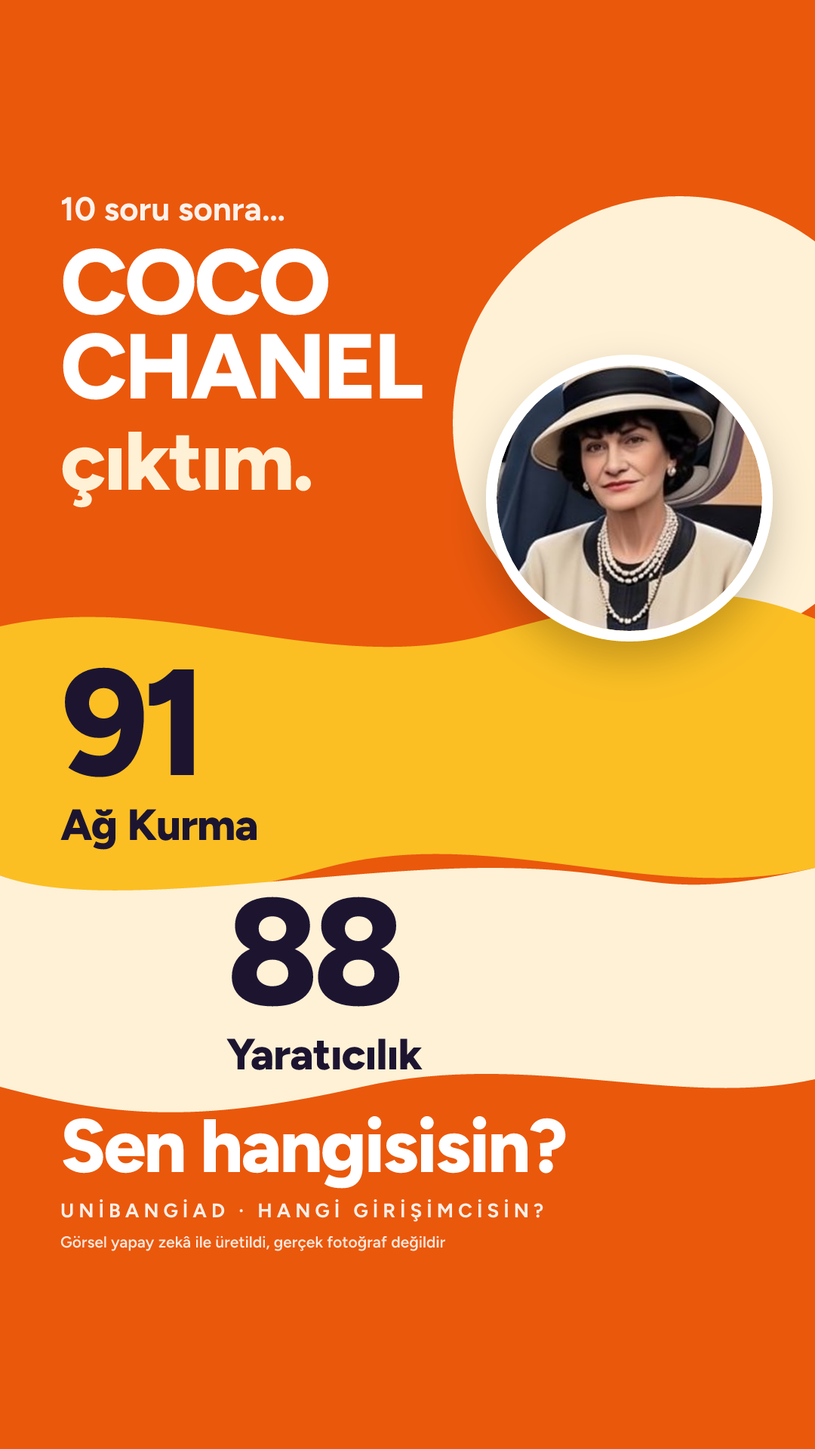
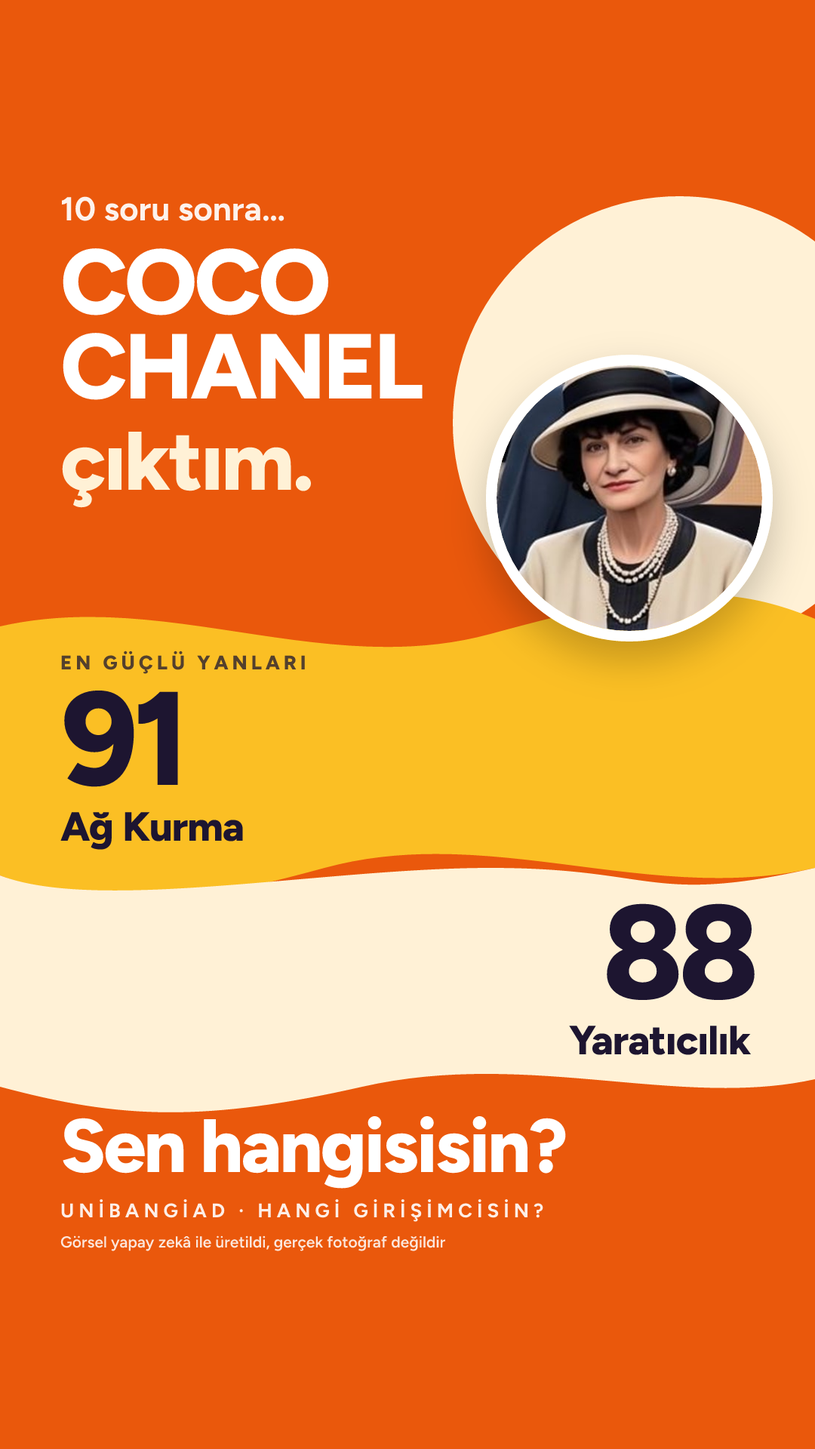
Wrapped öne alındı; En güçlü yanları başlığı, zikzak düzen
İkinci değer 75 altındaysa basılmaz.

Changed region(s): [[0.0611, 0.4375, 0.5194, 0.75], [0.7028, 0.625, 0.9472, 0.75]]

diff --git a/kofteci-yusuf/index.html b/kofteci-yusuf/index.html
@@ -13,7 +13,7 @@
 <style>:root{--g1:#7F1D1D;--g2:#EF4444}</style>
 <meta property="og:title" content="Köfteci Yusuf çıktım! — Hangi Girişimcisin?">
 <meta property="og:description" content="Sen bir kez doğru yaparsın, sonra onu bin kez aynı şekilde tekrarlarsın.">
-<meta property="og:image" content="https://arifemre1939.github.io/hangi-girisimcisin-paylas/kofteci-yusuf/hikaye-kart.png">
+<meta property="og:image" content="https://arifemre1939.github.io/hangi-girisimcisin-paylas/kofteci-yusuf/hikaye-wrapped.png">
 <script src="../paylas.js" defer></script>
 </head>
 <body>
@@ -24,14 +24,14 @@
 
   <!-- Kaydırılabilir şablonlar: hangisi ortadaysa paylaş/kaydet onu kullanır (paylas.js). -->
   <div class="sablonlar" id="sablonlar" tabindex="0" aria-label="Hikâye şablonları, yana kaydırarak seç">
-    <figure class="sablon" data-dosya="hikaye-kart.png"><img src="hikaye-kart.png" width="1080" height="1920" alt="Köfteci Yusuf — Girişimci kartı hikâye görseli"><figcaption>Girişimci kartı</figcaption></figure>
     <figure class="sablon" data-dosya="hikaye-wrapped.png"><img src="hikaye-wrapped.png" width="1080" height="1920" alt="Köfteci Yusuf — Wrapped hikâye görseli"><figcaption>Wrapped</figcaption></figure>
+    <figure class="sablon" data-dosya="hikaye-kart.png"><img src="hikaye-kart.png" width="1080" height="1920" alt="Köfteci Yusuf — Girişimci kartı hikâye görseli"><figcaption>Girişimci kartı</figcaption></figure>
   </div>
-  <div class="noktalar" id="noktalar"><button type="button" class="nokta aktif" data-i="0" aria-label="Girişimci kartı şablonunu göster"></button><button type="button" class="nokta" data-i="1" aria-label="Wrapped şablonunu göster"></button></div>
+  <div class="noktalar" id="noktalar"><button type="button" class="nokta aktif" data-i="0" aria-label="Wrapped şablonunu göster"></button><button type="button" class="nokta" data-i="1" aria-label="Girişimci kartı şablonunu göster"></button></div>
 
   <section class="eylemler">
     <button type="button" class="btn ana" id="paylas-btn"><svg xmlns="http://www.w3.org/2000/svg" width="22" height="22" fill="currentColor" viewBox="0 0 256 256" aria-hidden="true"><path d="M128,80a48,48,0,1,0,48,48A48.05,48.05,0,0,0,128,80Zm0,72a24,24,0,1,1,24-24A24,24,0,0,1,128,152ZM176,20H80A60.07,60.07,0,0,0,20,80v96a60.07,60.07,0,0,0,60,60h96a60.07,60.07,0,0,0,60-60V80A60.07,60.07,0,0,0,176,20Zm36,156a36,36,0,0,1-36,36H80a36,36,0,0,1-36-36V80A36,36,0,0,1,80,44h96a36,36,0,0,1,36,36ZM196,76a16,16,0,1,1-16-16A16,16,0,0,1,196,76Z"></path></svg>Instagram hikâyende paylaş</button>
-    <a class="btn" id="kaydet" href="hikaye-kart.png" download="kofteci-yusuf-hikaye-kart.png"><svg xmlns="http://www.w3.org/2000/svg" width="20" height="20" fill="currentColor" viewBox="0 0 256 256" aria-hidden="true"><path d="M228,144v64a12,12,0,0,1-12,12H40a12,12,0,0,1-12-12V144a12,12,0,0,1,24,0v52H204V144a12,12,0,0,1,24,0Zm-108.49,8.49a12,12,0,0,0,17,0l40-40a12,12,0,0,0-17-17L140,115V32a12,12,0,0,0-24,0v83L96.49,95.51a12,12,0,0,0-17,17Z"></path></svg>Görseli kaydet</a>
+    <a class="btn" id="kaydet" href="hikaye-wrapped.png" download="kofteci-yusuf-hikaye-wrapped.png"><svg xmlns="http://www.w3.org/2000/svg" width="20" height="20" fill="currentColor" viewBox="0 0 256 256" aria-hidden="true"><path d="M228,144v64a12,12,0,0,1-12,12H40a12,12,0,0,1-12-12V144a12,12,0,0,1,24,0v52H204V144a12,12,0,0,1,24,0Zm-108.49,8.49a12,12,0,0,0,17,0l40-40a12,12,0,0,0-17-17L140,115V32a12,12,0,0,0-24,0v83L96.49,95.51a12,12,0,0,0-17,17Z"></path></svg>Görseli kaydet</a>
     <div class="ipucu" id="ipucu" hidden>
       <p><strong>Görsel kaydedildi.</strong> Instagram'da yeni bir hikâye aç ve galeriden bu görseli seç.</p>
       <a href="instagram://story-camera">Instagram'ı aç →</a>

diff --git a/acun-ilicali/index.html b/acun-ilicali/index.html
@@ -13,7 +13,7 @@
 <style>:root{--g1:#9333EA;--g2:#F43F5E}</style>
 <meta property="og:title" content="Acun Ilıcalı çıktım! — Hangi Girişimcisin?">
 <meta property="og:description" content="Sen bir program yapmazsın, milyonları aynı saatte ekran başına toplarsın.">
-<meta property="og:image" content="https://arifemre1939.github.io/hangi-girisimcisin-paylas/acun-ilicali/hikaye-kart.png">
+<meta property="og:image" content="https://arifemre1939.github.io/hangi-girisimcisin-paylas/acun-ilicali/hikaye-wrapped.png">
 <script src="../paylas.js" defer></script>
 </head>
 <body>
@@ -24,14 +24,14 @@
 
   <!-- Kaydırılabilir şablonlar: hangisi ortadaysa paylaş/kaydet onu kullanır (paylas.js). -->
   <div class="sablonlar" id="sablonlar" tabindex="0" aria-label="Hikâye şablonları, yana kaydırarak seç">
-    <figure class="sablon" data-dosya="hikaye-kart.png"><img src="hikaye-kart.png" width="1080" height="1920" alt="Acun Ilıcalı — Girişimci kartı hikâye görseli"><figcaption>Girişimci kartı</figcaption></figure>
     <figure class="sablon" data-dosya="hikaye-wrapped.png"><img src="hikaye-wrapped.png" width="1080" height="1920" alt="Acun Ilıcalı — Wrapped hikâye görseli"><figcaption>Wrapped</figcaption></figure>
+    <figure class="sablon" data-dosya="hikaye-kart.png"><img src="hikaye-kart.png" width="1080" height="1920" alt="Acun Ilıcalı — Girişimci kartı hikâye görseli"><figcaption>Girişimci kartı</figcaption></figure>
   </div>
-  <div class="noktalar" id="noktalar"><button type="button" class="nokta aktif" data-i="0" aria-label="Girişimci kartı şablonunu göster"></button><button type="button" class="nokta" data-i="1" aria-label="Wrapped şablonunu göster"></button></div>
+  <div class="noktalar" id="noktalar"><button type="button" class="nokta aktif" data-i="0" aria-label="Wrapped şablonunu göster"></button><button type="button" class="nokta" data-i="1" aria-label="Girişimci kartı şablonunu göster"></button></div>
 
   <section class="eylemler">
     <button type="button" class="btn ana" id="paylas-btn"><svg xmlns="http://www.w3.org/2000/svg" width="22" height="22" fill="currentColor" viewBox="0 0 256 256" aria-hidden="true"><path d="M128,80a48,48,0,1,0,48,48A48.05,48.05,0,0,0,128,80Zm0,72a24,24,0,1,1,24-24A24,24,0,0,1,128,152ZM176,20H80A60.07,60.07,0,0,0,20,80v96a60.07,60.07,0,0,0,60,60h96a60.07,60.07,0,0,0,60-60V80A60.07,60.07,0,0,0,176,20Zm36,156a36,36,0,0,1-36,36H80a36,36,0,0,1-36-36V80A36,36,0,0,1,80,44h96a36,36,0,0,1,36,36ZM196,76a16,16,0,1,1-16-16A16,16,0,0,1,196,76Z"></path></svg>Instagram hikâyende paylaş</button>
-    <a class="btn" id="kaydet" href="hikaye-kart.png" download="acun-ilicali-hikaye-kart.png"><svg xmlns="http://www.w3.org/2000/svg" width="20" height="20" fill="currentColor" viewBox="0 0 256 256" aria-hidden="true"><path d="M228,144v64a12,12,0,0,1-12,12H40a12,12,0,0,1-12-12V144a12,12,0,0,1,24,0v52H204V144a12,12,0,0,1,24,0Zm-108.49,8.49a12,12,0,0,0,17,0l40-40a12,12,0,0,0-17-17L140,115V32a12,12,0,0,0-24,0v83L96.49,95.51a12,12,0,0,0-17,17Z"></path></svg>Görseli kaydet</a>
+    <a class="btn" id="kaydet" href="hikaye-wrapped.png" download="acun-ilicali-hikaye-wrapped.png"><svg xmlns="http://www.w3.org/2000/svg" width="20" height="20" fill="currentColor" viewBox="0 0 256 256" aria-hidden="true"><path d="M228,144v64a12,12,0,0,1-12,12H40a12,12,0,0,1-12-12V144a12,12,0,0,1,24,0v52H204V144a12,12,0,0,1,24,0Zm-108.49,8.49a12,12,0,0,0,17,0l40-40a12,12,0,0,0-17-17L140,115V32a12,12,0,0,0-24,0v83L96.49,95.51a12,12,0,0,0-17,17Z"></path></svg>Görseli kaydet</a>
     <div class="ipucu" id="ipucu" hidden>
       <p><strong>Görsel kaydedildi.</strong> Instagram'da yeni bir hikâye aç ve galeriden bu görseli seç.</p>
       <a href="instagram://story-camera">Instagram'ı aç →</a>

diff --git a/hanzade-dogan/index.html b/hanzade-dogan/index.html
@@ -13,7 +13,7 @@
 <style>:root{--g1:#7C3AED;--g2:#2563EB}</style>
 <meta property="og:title" content="Hanzade Doğan Boyner çıktım! — Hangi Girişimcisin?">
 <meta property="og:description" content="Sen bir işi kurmazsın, bir pazarı kurarsın.">
-<meta property="og:image" content="https://arifemre1939.github.io/hangi-girisimcisin-paylas/hanzade-dogan/hikaye-kart.png">
+<meta property="og:image" content="https://arifemre1939.github.io/hangi-girisimcisin-paylas/hanzade-dogan/hikaye-wrapped.png">
 <script src="../paylas.js" defer></script>
 </head>
 <body>
@@ -24,14 +24,14 @@
 
   <!-- Kaydırılabilir şablonlar: hangisi ortadaysa paylaş/kaydet onu kullanır (paylas.js). -->
   <div class="sablonlar" id="sablonlar" tabindex="0" aria-label="Hikâye şablonları, yana kaydırarak seç">
-    <figure class="sablon" data-dosya="hikaye-kart.png"><img src="hikaye-kart.png" width="1080" height="1920" alt="Hanzade Doğan Boyner — Girişimci kartı hikâye görseli"><figcaption>Girişimci kartı</figcaption></figure>
     <figure class="sablon" data-dosya="hikaye-wrapped.png"><img src="hikaye-wrapped.png" width="1080" height="1920" alt="Hanzade Doğan Boyner — Wrapped hikâye görseli"><figcaption>Wrapped</figcaption></figure>
+    <figure class="sablon" data-dosya="hikaye-kart.png"><img src="hikaye-kart.png" width="1080" height="1920" alt="Hanzade Doğan Boyner — Girişimci kartı hikâye görseli"><figcaption>Girişimci kartı</figcaption></figure>
   </div>
-  <div class="noktalar" id="noktalar"><button type="button" class="nokta aktif" data-i="0" aria-label="Girişimci kartı şablonunu göster"></button><button type="button" class="nokta" data-i="1" aria-label="Wrapped şablonunu göster"></button></div>
+  <div class="noktalar" id="noktalar"><button type="button" class="nokta aktif" data-i="0" aria-label="Wrapped şablonunu göster"></button><button type="button" class="nokta" data-i="1" aria-label="Girişimci kartı şablonunu göster"></button></div>
 
   <section class="eylemler">
     <button type="button" class="btn ana" id="paylas-btn"><svg xmlns="http://www.w3.org/2000/svg" width="22" height="22" fill="currentColor" viewBox="0 0 256 256" aria-hidden="true"><path d="M128,80a48,48,0,1,0,48,48A48.05,48.05,0,0,0,128,80Zm0,72a24,24,0,1,1,24-24A24,24,0,0,1,128,152ZM176,20H80A60.07,60.07,0,0,0,20,80v96a60.07,60.07,0,0,0,60,60h96a60.07,60.07,0,0,0,60-60V80A60.07,60.07,0,0,0,176,20Zm36,156a36,36,0,0,1-36,36H80a36,36,0,0,1-36-36V80A36,36,0,0,1,80,44h96a36,36,0,0,1,36,36ZM196,76a16,16,0,1,1-16-16A16,16,0,0,1,196,76Z"></path></svg>Instagram hikâyende paylaş</button>
-    <a class="btn" id="kaydet" href="hikaye-kart.png" download="hanzade-dogan-hikaye-kart.png"><svg xmlns="http://www.w3.org/2000/svg" width="20" height="20" fill="currentColor" viewBox="0 0 256 256" aria-hidden="true"><path d="M228,144v64a12,12,0,0,1-12,12H40a12,12,0,0,1-12-12V144a12,12,0,0,1,24,0v52H204V144a12,12,0,0,1,24,0Zm-108.49,8.49a12,12,0,0,0,17,0l40-40a12,12,0,0,0-17-17L140,115V32a12,12,0,0,0-24,0v83L96.49,95.51a12,12,0,0,0-17,17Z"></path></svg>Görseli kaydet</a>
+    <a class="btn" id="kaydet" href="hikaye-wrapped.png" download="hanzade-dogan-hikaye-wrapped.png"><svg xmlns="http://www.w3.org/2000/svg" width="20" height="20" fill="currentColor" viewBox="0 0 256 256" aria-hidden="true"><path d="M228,144v64a12,12,0,0,1-12,12H40a12,12,0,0,1-12-12V144a12,12,0,0,1,24,0v52H204V144a12,12,0,0,1,24,0Zm-108.49,8.49a12,12,0,0,0,17,0l40-40a12,12,0,0,0-17-17L140,115V32a12,12,0,0,0-24,0v83L96.49,95.51a12,12,0,0,0-17,17Z"></path></svg>Görseli kaydet</a>
     <div class="ipucu" id="ipucu" hidden>
       <p><strong>Görsel kaydedildi.</strong> Instagram'da yeni bir hikâye aç ve galeriden bu görseli seç.</p>
       <a href="instagram://story-camera">Instagram'ı aç →</a>

diff --git a/demet-mutlu/index.html b/demet-mutlu/index.html
@@ -13,7 +13,7 @@
 <style>:root{--g1:#C2410C;--g2:#F59E0B}</style>
 <meta property="og:title" content="Demet Mutlu çıktım! — Hangi Girişimcisin?">
 <meta property="og:description" content="Sen fırsatı görür görmez harekete geçer, rakipler toparlanmadan pazarı büyütürsün.">
-<meta property="og:image" content="https://arifemre1939.github.io/hangi-girisimcisin-paylas/demet-mutlu/hikaye-kart.png">
+<meta property="og:image" content="https://arifemre1939.github.io/hangi-girisimcisin-paylas/demet-mutlu/hikaye-wrapped.png">
 <script src="../paylas.js" defer></script>
 </head>
 <body>
@@ -24,14 +24,14 @@
 
   <!-- Kaydırılabilir şablonlar: hangisi ortadaysa paylaş/kaydet onu kullanır (paylas.js). -->
   <div class="sablonlar" id="sablonlar" tabindex="0" aria-label="Hikâye şablonları, yana kaydırarak seç">
-    <figure class="sablon" data-dosya="hikaye-kart.png"><img src="hikaye-kart.png" width="1080" height="1920" alt="Demet Mutlu — Girişimci kartı hikâye görseli"><figcaption>Girişimci kartı</figcaption></figure>
     <figure class="sablon" data-dosya="hikaye-wrapped.png"><img src="hikaye-wrapped.png" width="1080" height="1920" alt="Demet Mutlu — Wrapped hikâye görseli"><figcaption>Wrapped</figcaption></figure>
+    <figure class="sablon" data-dosya="hikaye-kart.png"><img src="hikaye-kart.png" width="1080" height="1920" alt="Demet Mutlu — Girişimci kartı hikâye görseli"><figcaption>Girişimci kartı</figcaption></figure>
   </div>
-  <div class="noktalar" id="noktalar"><button type="button" class="nokta aktif" data-i="0" aria-label="Girişimci kartı şablonunu göster"></button><button type="button" class="nokta" data-i="1" aria-label="Wrapped şablonunu göster"></button></div>
+  <div class="noktalar" id="noktalar"><button type="button" class="nokta aktif" data-i="0" aria-label="Wrapped şablonunu göster"></button><button type="button" class="nokta" data-i="1" aria-label="Girişimci kartı şablonunu göster"></button></div>
 
   <section class="eylemler">
     <button type="button" class="btn ana" id="paylas-btn"><svg xmlns="http://www.w3.org/2000/svg" width="22" height="22" fill="currentColor" viewBox="0 0 256 256" aria-hidden="true"><path d="M128,80a48,48,0,1,0,48,48A48.05,48.05,0,0,0,128,80Zm0,72a24,24,0,1,1,24-24A24,24,0,0,1,128,152ZM176,20H80A60.07,60.07,0,0,0,20,80v96a60.07,60.07,0,0,0,60,60h96a60.07,60.07,0,0,0,60-60V80A60.07,60.07,0,0,0,176,20Zm36,156a36,36,0,0,1-36,36H80a36,36,0,0,1-36-36V80A36,36,0,0,1,80,44h96a36,36,0,0,1,36,36ZM196,76a16,16,0,1,1-16-16A16,16,0,0,1,196,76Z"></path></svg>Instagram hikâyende paylaş</button>
-    <a class="btn" id="kaydet" href="hikaye-kart.png" download="demet-mutlu-hikaye-kart.png"><svg xmlns="http://www.w3.org/2000/svg" width="20" height="20" fill="currentColor" viewBox="0 0 256 256" aria-hidden="true"><path d="M228,144v64a12,12,0,0,1-12,12H40a12,12,0,0,1-12-12V144a12,12,0,0,1,24,0v52H204V144a12,12,0,0,1,24,0Zm-108.49,8.49a12,12,0,0,0,17,0l40-40a12,12,0,0,0-17-17L140,115V32a12,12,0,0,0-24,0v83L96.49,95.51a12,12,0,0,0-17,17Z"></path></svg>Görseli kaydet</a>
+    <a class="btn" id="kaydet" href="hikaye-wrapped.png" download="demet-mutlu-hikaye-wrapped.png"><svg xmlns="http://www.w3.org/2000/svg" width="20" height="20" fill="currentColor" viewBox="0 0 256 256" aria-hidden="true"><path d="M228,144v64a12,12,0,0,1-12,12H40a12,12,0,0,1-12-12V144a12,12,0,0,1,24,0v52H204V144a12,12,0,0,1,24,0Zm-108.49,8.49a12,12,0,0,0,17,0l40-40a12,12,0,0,0-17-17L140,115V32a12,12,0,0,0-24,0v83L96.49,95.51a12,12,0,0,0-17,17Z"></path></svg>Görseli kaydet</a>
     <div class="ipucu" id="ipucu" hidden>
       <p><strong>Görsel kaydedildi.</strong> Instagram'da yeni bir hikâye aç ve galeriden bu görseli seç.</p>
       <a href="instagram://story-camera">Instagram'ı aç →</a>

diff --git a/walt-disney/index.html b/walt-disney/index.html
@@ -13,7 +13,7 @@
 <style>:root{--g1:#0369A1;--g2:#F59E0B}</style>
 <meta property="og:title" content="Walt Disney çıktım! — Hangi Girişimcisin?">
 <meta property="og:description" content="Sen bir ürün satmazsın; insanların içine girmek isteyeceği bir dünya kurarsın.">
-<meta property="og:image" content="https://arifemre1939.github.io/hangi-girisimcisin-paylas/walt-disney/hikaye-kart.png">
+<meta property="og:image" content="https://arifemre1939.github.io/hangi-girisimcisin-paylas/walt-disney/hikaye-wrapped.png">
 <script src="../paylas.js" defer></script>
 </head>
 <body>
@@ -24,14 +24,14 @@
 
   <!-- Kaydırılabilir şablonlar: hangisi ortadaysa paylaş/kaydet onu kullanır (paylas.js). -->
   <div class="sablonlar" id="sablonlar" tabindex="0" aria-label="Hikâye şablonları, yana kaydırarak seç">
-    <figure class="sablon" data-dosya="hikaye-kart.png"><img src="hikaye-kart.png" width="1080" height="1920" alt="Walt Disney — Girişimci kartı hikâye görseli"><figcaption>Girişimci kartı</figcaption></figure>
     <figure class="sablon" data-dosya="hikaye-wrapped.png"><img src="hikaye-wrapped.png" width="1080" height="1920" alt="Walt Disney — Wrapped hikâye görseli"><figcaption>Wrapped</figcaption></figure>
+    <figure class="sablon" data-dosya="hikaye-kart.png"><img src="hikaye-kart.png" width="1080" height="1920" alt="Walt Disney — Girişimci kartı hikâye görseli"><figcaption>Girişimci kartı</figcaption></figure>
   </div>
-  <div class="noktalar" id="noktalar"><button type="button" class="nokta aktif" data-i="0" aria-label="Girişimci kartı şablonunu göster"></button><button type="button" class="nokta" data-i="1" aria-label="Wrapped şablonunu göster"></button></div>
+  <div class="noktalar" id="noktalar"><button type="button" class="nokta aktif" data-i="0" aria-label="Wrapped şablonunu göster"></button><button type="button" class="nokta" data-i="1" aria-label="Girişimci kartı şablonunu göster"></button></div>
 
   <section class="eylemler">
     <button type="button" class="btn ana" id="paylas-btn"><svg xmlns="http://www.w3.org/2000/svg" width="22" height="22" fill="currentColor" viewBox="0 0 256 256" aria-hidden="true"><path d="M128,80a48,48,0,1,0,48,48A48.05,48.05,0,0,0,128,80Zm0,72a24,24,0,1,1,24-24A24,24,0,0,1,128,152ZM176,20H80A60.07,60.07,0,0,0,20,80v96a60.07,60.07,0,0,0,60,60h96a60.07,60.07,0,0,0,60-60V80A60.07,60.07,0,0,0,176,20Zm36,156a36,36,0,0,1-36,36H80a36,36,0,0,1-36-36V80A36,36,0,0,1,80,44h96a36,36,0,0,1,36,36ZM196,76a16,16,0,1,1-16-16A16,16,0,0,1,196,76Z"></path></svg>Instagram hikâyende paylaş</button>
-    <a class="btn" id="kaydet" href="hikaye-kart.png" download="walt-disney-hikaye-kart.png"><svg xmlns="http://www.w3.org/2000/svg" width="20" height="20" fill="currentColor" viewBox="0 0 256 256" aria-hidden="true"><path d="M228,144v64a12,12,0,0,1-12,12H40a12,12,0,0,1-12-12V144a12,12,0,0,1,24,0v52H204V144a12,12,0,0,1,24,0Zm-108.49,8.49a12,12,0,0,0,17,0l40-40a12,12,0,0,0-17-17L140,115V32a12,12,0,0,0-24,0v83L96.49,95.51a12,12,0,0,0-17,17Z"></path></svg>Görseli kaydet</a>
+    <a class="btn" id="kaydet" href="hikaye-wrapped.png" download="walt-disney-hikaye-wrapped.png"><svg xmlns="http://www.w3.org/2000/svg" width="20" height="20" fill="currentColor" viewBox="0 0 256 256" aria-hidden="true"><path d="M228,144v64a12,12,0,0,1-12,12H40a12,12,0,0,1-12-12V144a12,12,0,0,1,24,0v52H204V144a12,12,0,0,1,24,0Zm-108.49,8.49a12,12,0,0,0,17,0l40-40a12,12,0,0,0-17-17L140,115V32a12,12,0,0,0-24,0v83L96.49,95.51a12,12,0,0,0-17,17Z"></path></svg>Görseli kaydet</a>
     <div class="ipucu" id="ipucu" hidden>
       <p><strong>Görsel kaydedildi.</strong> Instagram'da yeni bir hikâye aç ve galeriden bu görseli seç.</p>
       <a href="instagram://story-camera">Instagram'ı aç →</a>

diff --git a/coco-chanel/index.html b/coco-chanel/index.html
@@ -13,7 +13,7 @@
 <style>:root{--g1:#27272A;--g2:#C8A97E}</style>
 <meta property="og:title" content="Coco Chanel çıktım! — Hangi Girişimcisin?">
 <meta property="og:description" content="Sen modayı takip etmezsin; insanlar senin bir sonraki adımını takip eder.">
-<meta property="og:image" content="https://arifemre1939.github.io/hangi-girisimcisin-paylas/coco-chanel/hikaye-kart.png">
+<meta property="og:image" content="https://arifemre1939.github.io/hangi-girisimcisin-paylas/coco-chanel/hikaye-wrapped.png">
 <script src="../paylas.js" defer></script>
 </head>
 <body>
@@ -24,14 +24,14 @@
 
   <!-- Kaydırılabilir şablonlar: hangisi ortadaysa paylaş/kaydet onu kullanır (paylas.js). -->
   <div class="sablonlar" id="sablonlar" tabindex="0" aria-label="Hikâye şablonları, yana kaydırarak seç">
-    <figure class="sablon" data-dosya="hikaye-kart.png"><img src="hikaye-kart.png" width="1080" height="1920" alt="Coco Chanel — Girişimci kartı hikâye görseli"><figcaption>Girişimci kartı</figcaption></figure>
     <figure class="sablon" data-dosya="hikaye-wrapped.png"><img src="hikaye-wrapped.png" width="1080" height="1920" alt="Coco Chanel — Wrapped hikâye görseli"><figcaption>Wrapped</figcaption></figure>
+    <figure class="sablon" data-dosya="hikaye-kart.png"><img src="hikaye-kart.png" width="1080" height="1920" alt="Coco Chanel — Girişimci kartı hikâye görseli"><figcaption>Girişimci kartı</figcaption></figure>
   </div>
-  <div class="noktalar" id="noktalar"><button type="button" class="nokta aktif" data-i="0" aria-label="Girişimci kartı şablonunu göster"></button><button type="button" class="nokta" data-i="1" aria-label="Wrapped şablonunu göster"></button></div>
+  <div class="noktalar" id="noktalar"><button type="button" class="nokta aktif" data-i="0" aria-label="Wrapped şablonunu göster"></button><button type="button" class="nokta" data-i="1" aria-label="Girişimci kartı şablonunu göster"></button></div>
 
   <section class="eylemler">
     <button type="button" class="btn ana" id="paylas-btn"><svg xmlns="http://www.w3.org/2000/svg" width="22" height="22" fill="currentColor" viewBox="0 0 256 256" aria-hidden="true"><path d="M128,80a48,48,0,1,0,48,48A48.05,48.05,0,0,0,128,80Zm0,72a24,24,0,1,1,24-24A24,24,0,0,1,128,152ZM176,20H80A60.07,60.07,0,0,0,20,80v96a60.07,60.07,0,0,0,60,60h96a60.07,60.07,0,0,0,60-60V80A60.07,60.07,0,0,0,176,20Zm36,156a36,36,0,0,1-36,36H80a36,36,0,0,1-36-36V80A36,36,0,0,1,80,44h96a36,36,0,0,1,36,36ZM196,76a16,16,0,1,1-16-16A16,16,0,0,1,196,76Z"></path></svg>Instagram hikâyende paylaş</button>
-    <a class="btn" id="kaydet" href="hikaye-kart.png" download="coco-chanel-hikaye-kart.png"><svg xmlns="http://www.w3.org/2000/svg" width="20" height="20" fill="currentColor" viewBox="0 0 256 256" aria-hidden="true"><path d="M228,144v64a12,12,0,0,1-12,12H40a12,12,0,0,1-12-12V144a12,12,0,0,1,24,0v52H204V144a12,12,0,0,1,24,0Zm-108.49,8.49a12,12,0,0,0,17,0l40-40a12,12,0,0,0-17-17L140,115V32a12,12,0,0,0-24,0v83L96.49,95.51a12,12,0,0,0-17,17Z"></path></svg>Görseli kaydet</a>
+    <a class="btn" id="kaydet" href="hikaye-wrapped.png" download="coco-chanel-hikaye-wrapped.png"><svg xmlns="http://www.w3.org/2000/svg" width="20" height="20" fill="currentColor" viewBox="0 0 256 256" aria-hidden="true"><path d="M228,144v64a12,12,0,0,1-12,12H40a12,12,0,0,1-12-12V144a12,12,0,0,1,24,0v52H204V144a12,12,0,0,1,24,0Zm-108.49,8.49a12,12,0,0,0,17,0l40-40a12,12,0,0,0-17-17L140,115V32a12,12,0,0,0-24,0v83L96.49,95.51a12,12,0,0,0-17,17Z"></path></svg>Görseli kaydet</a>
     <div class="ipucu" id="ipucu" hidden>
       <p><strong>Görsel kaydedildi.</strong> Instagram'da yeni bir hikâye aç ve galeriden bu görseli seç.</p>
       <a href="instagram://story-camera">Instagram'ı aç →</a>

diff --git a/nusret-gokce/index.html b/nusret-gokce/index.html
@@ -13,7 +13,7 @@
 <style>:root{--g1:#3F2A1D;--g2:#A16207}</style>
 <meta property="og:title" content="Nusret Gökçe çıktım! — Hangi Girişimcisin?">
 <meta property="og:description" content="Sen işini yapmazsın, işini sahneye çevirirsin.">
-<meta property="og:image" content="https://arifemre1939.github.io/hangi-girisimcisin-paylas/nusret-gokce/hikaye-kart.png">
+<meta property="og:image" content="https://arifemre1939.github.io/hangi-girisimcisin-paylas/nusret-gokce/hikaye-wrapped.png">
 <script src="../paylas.js" defer></script>
 </head>
 <body>
@@ -24,14 +24,14 @@
 
   <!-- Kaydırılabilir şablonlar: hangisi ortadaysa paylaş/kaydet onu kullanır (paylas.js). -->
   <div class="sablonlar" id="sablonlar" tabindex="0" aria-label="Hikâye şablonları, yana kaydırarak seç">
-    <figure class="sablon" data-dosya="hikaye-kart.png"><img src="hikaye-kart.png" width="1080" height="1920" alt="Nusret Gökçe — Girişimci kartı hikâye görseli"><figcaption>Girişimci kartı</figcaption></figure>
     <figure class="sablon" data-dosya="hikaye-wrapped.png"><img src="hikaye-wrapped.png" width="1080" height="1920" alt="Nusret Gökçe — Wrapped hikâye görseli"><figcaption>Wrapped</figcaption></figure>
+    <figure class="sablon" data-dosya="hikaye-kart.png"><img src="hikaye-kart.png" width="1080" height="1920" alt="Nusret Gökçe — Girişimci kartı hikâye görseli"><figcaption>Girişimci kartı</figcaption></figure>
   </div>
-  <div class="noktalar" id="noktalar"><button type="button" class="nokta aktif" data-i="0" aria-label="Girişimci kartı şablonunu göster"></button><button type="button" class="nokta" data-i="1" aria-label="Wrapped şablonunu göster"></button></div>
+  <div class="noktalar" id="noktalar"><button type="button" class="nokta aktif" data-i="0" aria-label="Wrapped şablonunu göster"></button><button type="button" class="nokta" data-i="1" aria-label="Girişimci kartı şablonunu göster"></button></div>
 
   <section class="eylemler">
     <button type="button" class="btn ana" id="paylas-btn"><svg xmlns="http://www.w3.org/2000/svg" width="22" height="22" fill="currentColor" viewBox="0 0 256 256" aria-hidden="true"><path d="M128,80a48,48,0,1,0,48,48A48.05,48.05,0,0,0,128,80Zm0,72a24,24,0,1,1,24-24A24,24,0,0,1,128,152ZM176,20H80A60.07,60.07,0,0,0,20,80v96a60.07,60.07,0,0,0,60,60h96a60.07,60.07,0,0,0,60-60V80A60.07,60.07,0,0,0,176,20Zm36,156a36,36,0,0,1-36,36H80a36,36,0,0,1-36-36V80A36,36,0,0,1,80,44h96a36,36,0,0,1,36,36ZM196,76a16,16,0,1,1-16-16A16,16,0,0,1,196,76Z"></path></svg>Instagram hikâyende paylaş</button>
-    <a class="btn" id="kaydet" href="hikaye-kart.png" download="nusret-gokce-hikaye-kart.png"><svg xmlns="http://www.w3.org/2000/svg" width="20" height="20" fill="currentColor" viewBox="0 0 256 256" aria-hidden="true"><path d="M228,144v64a12,12,0,0,1-12,12H40a12,12,0,0,1-12-12V144a12,12,0,0,1,24,0v52H204V144a12,12,0,0,1,24,0Zm-108.49,8.49a12,12,0,0,0,17,0l40-40a12,12,0,0,0-17-17L140,115V32a12,12,0,0,0-24,0v83L96.49,95.51a12,12,0,0,0-17,17Z"></path></svg>Görseli kaydet</a>
+    <a class="btn" id="kaydet" href="hikaye-wrapped.png" download="nusret-gokce-hikaye-wrapped.png"><svg xmlns="http://www.w3.org/2000/svg" width="20" height="20" fill="currentColor" viewBox="0 0 256 256" aria-hidden="true"><path d="M228,144v64a12,12,0,0,1-12,12H40a12,12,0,0,1-12-12V144a12,12,0,0,1,24,0v52H204V144a12,12,0,0,1,24,0Zm-108.49,8.49a12,12,0,0,0,17,0l40-40a12,12,0,0,0-17-17L140,115V32a12,12,0,0,0-24,0v83L96.49,95.51a12,12,0,0,0-17,17Z"></path></svg>Görseli kaydet</a>
     <div class="ipucu" id="ipucu" hidden>
       <p><strong>Görsel kaydedildi.</strong> Instagram'da yeni bir hikâye aç ve galeriden bu görseli seç.</p>
       <a href="instagram://story-camera">Instagram'ı aç →</a>

diff --git a/elon-musk/index.html b/elon-musk/index.html
@@ -13,7 +13,7 @@
 <style>:root{--g1:#020617;--g2:#4F46E5}</style>
 <meta property="og:title" content="Elon Musk çıktım! — Hangi Girişimcisin?">
 <meta property="og:description" content="Sen imkânsız denen hedefi seçer, sonra oraya giden yolu kendin inşa edersin.">
-<meta property="og:image" content="https://arifemre1939.github.io/hangi-girisimcisin-paylas/elon-musk/hikaye-kart.png">
+<meta property="og:image" content="https://arifemre1939.github.io/hangi-girisimcisin-paylas/elon-musk/hikaye-wrapped.png">
 <script src="../paylas.js" defer></script>
 </head>
 <body>
@@ -24,14 +24,14 @@
 
   <!-- Kaydırılabilir şablonlar: hangisi ortadaysa paylaş/kaydet onu kullanır (paylas.js). -->
   <div class="sablonlar" id="sablonlar" tabindex="0" aria-label="Hikâye şablonları, yana kaydırarak seç">
-    <figure class="sablon" data-dosya="hikaye-kart.png"><img src="hikaye-kart.png" width="1080" height="1920" alt="Elon Musk — Girişimci kartı hikâye görseli"><figcaption>Girişimci kartı</figcaption></figure>
     <figure class="sablon" data-dosya="hikaye-wrapped.png"><img src="hikaye-wrapped.png" width="1080" height="1920" alt="Elon Musk — Wrapped hikâye görseli"><figcaption>Wrapped</figcaption></figure>
+    <figure class="sablon" data-dosya="hikaye-kart.png"><img src="hikaye-kart.png" width="1080" height="1920" alt="Elon Musk — Girişimci kartı hikâye görseli"><figcaption>Girişimci kartı</figcaption></figure>
   </div>
-  <div class="noktalar" id="noktalar"><button type="button" class="nokta aktif" data-i="0" aria-label="Girişimci kartı şablonunu göster"></button><button type="button" class="nokta" data-i="1" aria-label="Wrapped şablonunu göster"></button></div>
+  <div class="noktalar" id="noktalar"><button type="button" class="nokta aktif" data-i="0" aria-label="Wrapped şablonunu göster"></button><button type="button" class="nokta" data-i="1" aria-label="Girişimci kartı şablonunu göster"></button></div>
 
   <section class="eylemler">
     <button type="button" class="btn ana" id="paylas-btn"><svg xmlns="http://www.w3.org/2000/svg" width="22" height="22" fill="currentColor" viewBox="0 0 256 256" aria-hidden="true"><path d="M128,80a48,48,0,1,0,48,48A48.05,48.05,0,0,0,128,80Zm0,72a24,24,0,1,1,24-24A24,24,0,0,1,128,152ZM176,20H80A60.07,60.07,0,0,0,20,80v96a60.07,60.07,0,0,0,60,60h96a60.07,60.07,0,0,0,60-60V80A60.07,60.07,0,0,0,176,20Zm36,156a36,36,0,0,1-36,36H80a36,36,0,0,1-36-36V80A36,36,0,0,1,80,44h96a36,36,0,0,1,36,36ZM196,76a16,16,0,1,1-16-16A16,16,0,0,1,196,76Z"></path></svg>Instagram hikâyende paylaş</button>
-    <a class="btn" id="kaydet" href="hikaye-kart.png" download="elon-musk-hikaye-kart.png"><svg xmlns="http://www.w3.org/2000/svg" width="20" height="20" fill="currentColor" viewBox="0 0 256 256" aria-hidden="true"><path d="M228,144v64a12,12,0,0,1-12,12H40a12,12,0,0,1-12-12V144a12,12,0,0,1,24,0v52H204V144a12,12,0,0,1,24,0Zm-108.49,8.49a12,12,0,0,0,17,0l40-40a12,12,0,0,0-17-17L140,115V32a12,12,0,0,0-24,0v83L96.49,95.51a12,12,0,0,0-17,17Z"></path></svg>Görseli kaydet</a>
+    <a class="btn" id="kaydet" href="hikaye-wrapped.png" download="elon-musk-hikaye-wrapped.png"><svg xmlns="http://www.w3.org/2000/svg" width="20" height="20" fill="currentColor" viewBox="0 0 256 256" aria-hidden="true"><path d="M228,144v64a12,12,0,0,1-12,12H40a12,12,0,0,1-12-12V144a12,12,0,0,1,24,0v52H204V144a12,12,0,0,1,24,0Zm-108.49,8.49a12,12,0,0,0,17,0l40-40a12,12,0,0,0-17-17L140,115V32a12,12,0,0,0-24,0v83L96.49,95.51a12,12,0,0,0-17,17Z"></path></svg>Görseli kaydet</a>
     <div class="ipucu" id="ipucu" hidden>
       <p><strong>Görsel kaydedildi.</strong> Instagram'da yeni bir hikâye aç ve galeriden bu görseli seç.</p>
       <a href="instagram://story-camera">Instagram'ı aç →</a>

diff --git a/mrbeast/index.html b/mrbeast/index.html
@@ -13,7 +13,7 @@
 <style>:root{--g1:#EC4899;--g2:#3B82F6}</style>
 <meta property="og:title" content="MrBeast çıktım! — Hangi Girişimcisin?">
 <meta property="og:description" content="Sen bir videoyu çekmeden önce izleyicinin hangi saniyede sıkılacağını bilirsin.">
-<meta property="og:image" content="https://arifemre1939.github.io/hangi-girisimcisin-paylas/mrbeast/hikaye-kart.png">
+<meta property="og:image" content="https://arifemre1939.github.io/hangi-girisimcisin-paylas/mrbeast/hikaye-wrapped.png">
 <script src="../paylas.js" defer></script>
 </head>
 <body>
@@ -24,14 +24,14 @@
 
   <!-- Kaydırılabilir şablonlar: hangisi ortadaysa paylaş/kaydet onu kullanır (paylas.js). -->
   <div class="sablonlar" id="sablonlar" tabindex="0" aria-label="Hikâye şablonları, yana kaydırarak seç">
-    <figure class="sablon" data-dosya="hikaye-kart.png"><img src="hikaye-kart.png" width="1080" height="1920" alt="MrBeast — Girişimci kartı hikâye görseli"><figcaption>Girişimci kartı</figcaption></figure>
     <figure class="sablon" data-dosya="hikaye-wrapped.png"><img src="hikaye-wrapped.png" width="1080" height="1920" alt="MrBeast — Wrapped hikâye görseli"><figcaption>Wrapped</figcaption></figure>
+    <figure class="sablon" data-dosya="hikaye-kart.png"><img src="hikaye-kart.png" width="1080" height="1920" alt="MrBeast — Girişimci kartı hikâye görseli"><figcaption>Girişimci kartı</figcaption></figure>
   </div>
-  <div class="noktalar" id="noktalar"><button type="button" class="nokta aktif" data-i="0" aria-label="Girişimci kartı şablonunu göster"></button><button type="button" class="nokta" data-i="1" aria-label="Wrapped şablonunu göster"></button></div>
+  <div class="noktalar" id="noktalar"><button type="button" class="nokta aktif" data-i="0" aria-label="Wrapped şablonunu göster"></button><button type="button" class="nokta" data-i="1" aria-label="Girişimci kartı şablonunu göster"></button></div>
 
   <section class="eylemler">
     <button type="button" class="btn ana" id="paylas-btn"><svg xmlns="http://www.w3.org/2000/svg" width="22" height="22" fill="currentColor" viewBox="0 0 256 256" aria-hidden="true"><path d="M128,80a48,48,0,1,0,48,48A48.05,48.05,0,0,0,128,80Zm0,72a24,24,0,1,1,24-24A24,24,0,0,1,128,152ZM176,20H80A60.07,60.07,0,0,0,20,80v96a60.07,60.07,0,0,0,60,60h96a60.07,60.07,0,0,0,60-60V80A60.07,60.07,0,0,0,176,20Zm36,156a36,36,0,0,1-36,36H80a36,36,0,0,1-36-36V80A36,36,0,0,1,80,44h96a36,36,0,0,1,36,36ZM196,76a16,16,0,1,1-16-16A16,16,0,0,1,196,76Z"></path></svg>Instagram hikâyende paylaş</button>
-    <a class="btn" id="kaydet" href="hikaye-kart.png" download="mrbeast-hikaye-kart.png"><svg xmlns="http://www.w3.org/2000/svg" width="20" height="20" fill="currentColor" viewBox="0 0 256 256" aria-hidden="true"><path d="M228,144v64a12,12,0,0,1-12,12H40a12,12,0,0,1-12-12V144a12,12,0,0,1,24,0v52H204V144a12,12,0,0,1,24,0Zm-108.49,8.49a12,12,0,0,0,17,0l40-40a12,12,0,0,0-17-17L140,115V32a12,12,0,0,0-24,0v83L96.49,95.51a12,12,0,0,0-17,17Z"></path></svg>Görseli kaydet</a>
+    <a class="btn" id="kaydet" href="hikaye-wrapped.png" download="mrbeast-hikaye-wrapped.png"><svg xmlns="http://www.w3.org/2000/svg" width="20" height="20" fill="currentColor" viewBox="0 0 256 256" aria-hidden="true"><path d="M228,144v64a12,12,0,0,1-12,12H40a12,12,0,0,1-12-12V144a12,12,0,0,1,24,0v52H204V144a12,12,0,0,1,24,0Zm-108.49,8.49a12,12,0,0,0,17,0l40-40a12,12,0,0,0-17-17L140,115V32a12,12,0,0,0-24,0v83L96.49,95.51a12,12,0,0,0-17,17Z"></path></svg>Görseli kaydet</a>
     <div class="ipucu" id="ipucu" hidden>
       <p><strong>Görsel kaydedildi.</strong> Instagram'da yeni bir hikâye aç ve galeriden bu görseli seç.</p>
       <a href="instagram://story-camera">Instagram'ı aç →</a>

diff --git a/jeff-bezos/index.html b/jeff-bezos/index.html
@@ -13,7 +13,7 @@
 <style>:root{--g1:#0EA5E9;--g2:#1E3A8A}</style>
 <meta property="og:title" content="Jeff Bezos çıktım! — Hangi Girişimcisin?">
 <meta property="og:description" content="Sen tahmin etmezsin; ölçer, sonra büyütürsün.">
-<meta property="og:image" content="https://arifemre1939.github.io/hangi-girisimcisin-paylas/jeff-bezos/hikaye-kart.png">
+<meta property="og:image" content="https://arifemre1939.github.io/hangi-girisimcisin-paylas/jeff-bezos/hikaye-wrapped.png">
 <script src="../paylas.js" defer></script>
 </head>
 <body>
@@ -24,14 +24,14 @@
 
   <!-- Kaydırılabilir şablonlar: hangisi ortadaysa paylaş/kaydet onu kullanır (paylas.js). -->
   <div class="sablonlar" id="sablonlar" tabindex="0" aria-label="Hikâye şablonları, yana kaydırarak seç">
-    <figure class="sablon" data-dosya="hikaye-kart.png"><img src="hikaye-kart.png" width="1080" height="1920" alt="Jeff Bezos — Girişimci kartı hikâye görseli"><figcaption>Girişimci kartı</figcaption></figure>
     <figure class="sablon" data-dosya="hikaye-wrapped.png"><img src="hikaye-wrapped.png" width="1080" height="1920" alt="Jeff Bezos — Wrapped hikâye görseli"><figcaption>Wrapped</figcaption></figure>
+    <figure class="sablon" data-dosya="hikaye-kart.png"><img src="hikaye-kart.png" width="1080" height="1920" alt="Jeff Bezos — Girişimci kartı hikâye görseli"><figcaption>Girişimci kartı</figcaption></figure>
   </div>
-  <div class="noktalar" id="noktalar"><button type="button" class="nokta aktif" data-i="0" aria-label="Girişimci kartı şablonunu göster"></button><button type="button" class="nokta" data-i="1" aria-label="Wrapped şablonunu göster"></button></div>
+  <div class="noktalar" id="noktalar"><button type="button" class="nokta aktif" data-i="0" aria-label="Wrapped şablonunu göster"></button><button type="button" class="nokta" data-i="1" aria-label="Girişimci kartı şablonunu göster"></button></div>
 
   <section class="eylemler">
     <button type="button" class="btn ana" id="paylas-btn"><svg xmlns="http://www.w3.org/2000/svg" width="22" height="22" fill="currentColor" viewBox="0 0 256 256" aria-hidden="true"><path d="M128,80a48,48,0,1,0,48,48A48.05,48.05,0,0,0,128,80Zm0,72a24,24,0,1,1,24-24A24,24,0,0,1,128,152ZM176,20H80A60.07,60.07,0,0,0,20,80v96a60.07,60.07,0,0,0,60,60h96a60.07,60.07,0,0,0,60-60V80A60.07,60.07,0,0,0,176,20Zm36,156a36,36,0,0,1-36,36H80a36,36,0,0,1-36-36V80A36,36,0,0,1,80,44h96a36,36,0,0,1,36,36ZM196,76a16,16,0,1,1-16-16A16,16,0,0,1,196,76Z"></path></svg>Instagram hikâyende paylaş</button>
-    <a class="btn" id="kaydet" href="hikaye-kart.png" download="jeff-bezos-hikaye-kart.png"><svg xmlns="http://www.w3.org/2000/svg" width="20" height="20" fill="currentColor" viewBox="0 0 256 256" aria-hidden="true"><path d="M228,144v64a12,12,0,0,1-12,12H40a12,12,0,0,1-12-12V144a12,12,0,0,1,24,0v52H204V144a12,12,0,0,1,24,0Zm-108.49,8.49a12,12,0,0,0,17,0l40-40a12,12,0,0,0-17-17L140,115V32a12,12,0,0,0-24,0v83L96.49,95.51a12,12,0,0,0-17,17Z"></path></svg>Görseli kaydet</a>
+    <a class="btn" id="kaydet" href="hikaye-wrapped.png" download="jeff-bezos-hikaye-wrapped.png"><svg xmlns="http://www.w3.org/2000/svg" width="20" height="20" fill="currentColor" viewBox="0 0 256 256" aria-hidden="true"><path d="M228,144v64a12,12,0,0,1-12,12H40a12,12,0,0,1-12-12V144a12,12,0,0,1,24,0v52H204V144a12,12,0,0,1,24,0Zm-108.49,8.49a12,12,0,0,0,17,0l40-40a12,12,0,0,0-17-17L140,115V32a12,12,0,0,0-24,0v83L96.49,95.51a12,12,0,0,0-17,17Z"></path></svg>Görseli kaydet</a>
     <div class="ipucu" id="ipucu" hidden>
       <p><strong>Görsel kaydedildi.</strong> Instagram'da yeni bir hikâye aç ve galeriden bu görseli seç.</p>
       <a href="instagram://story-camera">Instagram'ı aç →</a>
